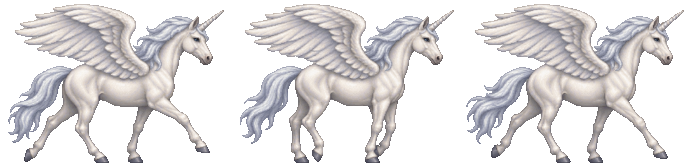
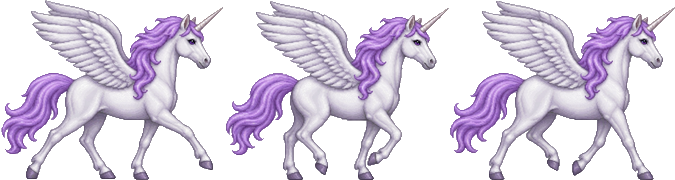
chore: new white and lavender Pegasus Unicorn sprite

diff --git a/js/data.js b/js/data.js
@@ -680,7 +680,7 @@ G.HOME_PETS = [
   { id: 'jellySail', move: 'float', w: 20, speed: 2, fw: 230, fh: 219 },
   { id: 'jellyShroom', move: 'float', w: 22, speed: 2, fw: 220, fh: 178 },
   { id: 'jellyMountain', move: 'float', w: 22, speed: 2, fw: 220, fh: 211 },
-  { id: 'unicorn',   move: 'walk',  w: 30, speed: 7, fw: 230, fh: 168 },   // 第 154 輪：天馬獨角獸
+  { id: 'unicorn',   move: 'walk',  w: 30, speed: 7, fw: 225, fh: 180 },   // 第 154 輪：天馬獨角獸（第 158 輪換成白身紫鬃版）
 ];
 // 寵物特殊機制（跟品種分開隨機）。同一種機制放兩隻只有先放的那隻有效
 G.PET_PERKS = [

diff --git a/DEVELOPMENT_LOG.md b/DEVELOPMENT_LOG.md
@@ -2842,3 +2842,11 @@
   - 捕獸網說明，多加一句「跟船艙寵物不同」。
   - 三語都改了。
 - **驗證**：無頭瀏覽器載入，三隻貓在船艙正常走動，家園標題顯示「捕獲生物」，沒有 page error。
+
+## 第 158 輪（2026-11-12）：天馬獨角獸換成新顏色版本
+
+**需求**：「幫我把 原本獨角獸 改成這個顏色版本」，附白身紫鬃的 3 格動畫圖。
+
+- `assets/pets/unicorn.png` 換成新圖。切圖做法照舊：縮成 1/3、去雜邊、底部對齊。每格 225×180，`G.HOME_PETS` 的 fw/fh 也跟著更新。
+- 寵物 id 沒變，所以玩家已經有的天馬獨角獸會直接變成新顏色。
+- **驗證**：無頭瀏覽器載入，船艙裡顯示正常，沒有 page error。
